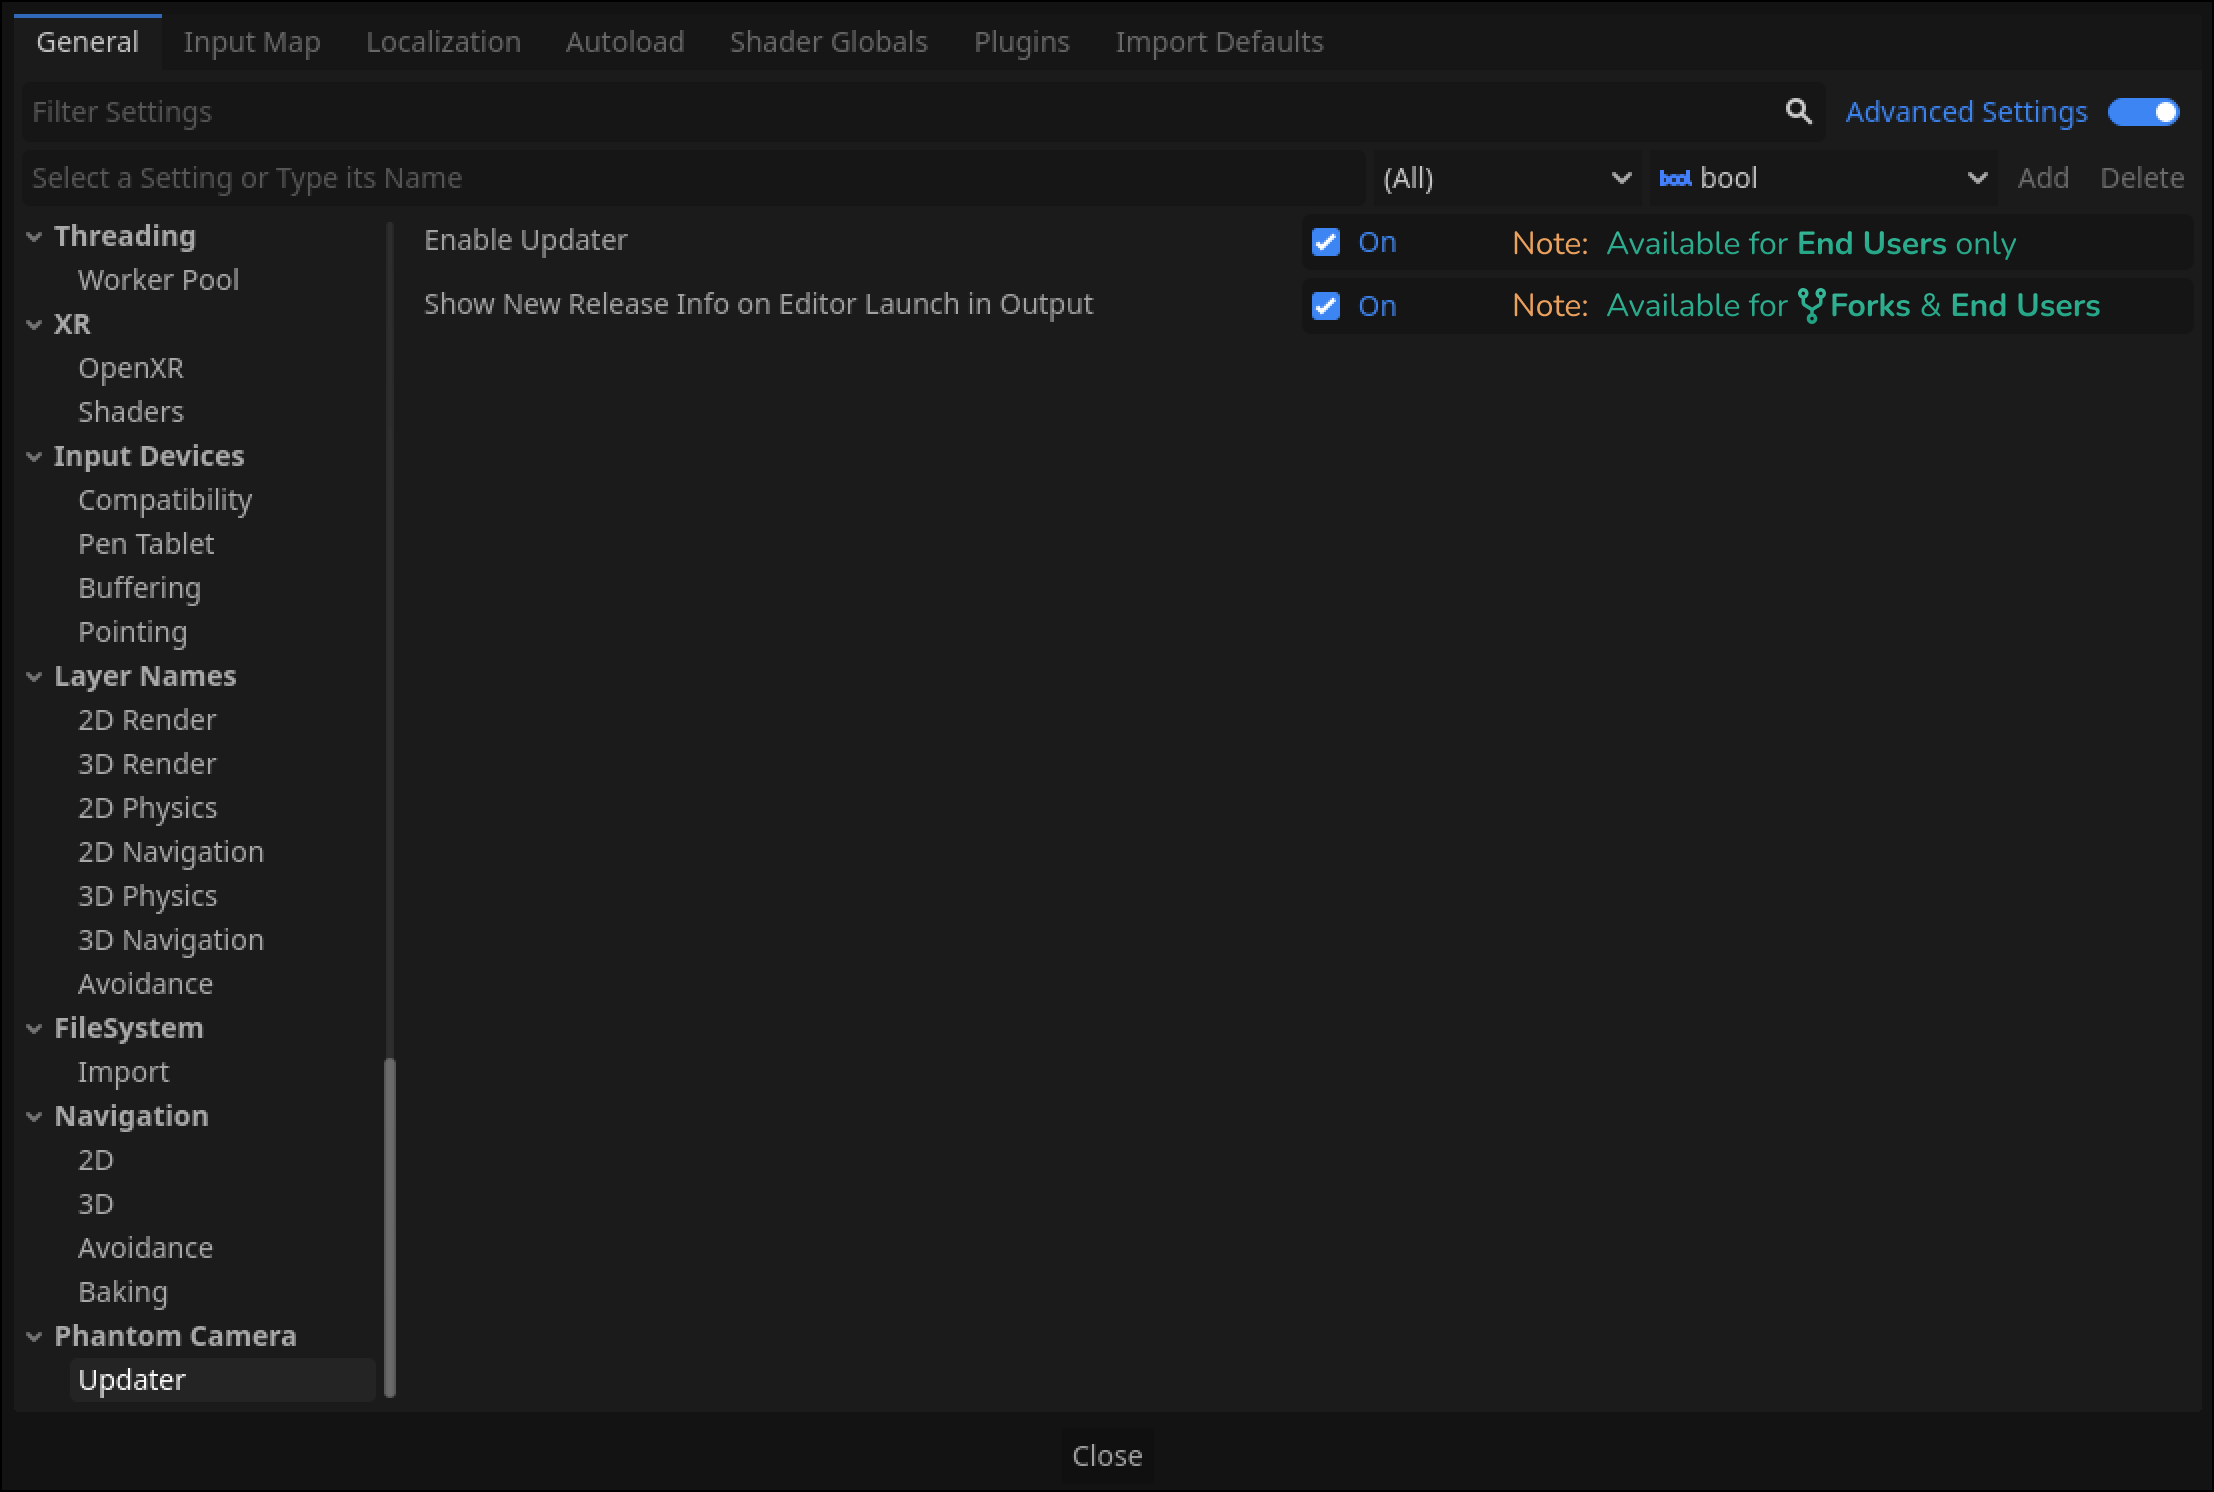
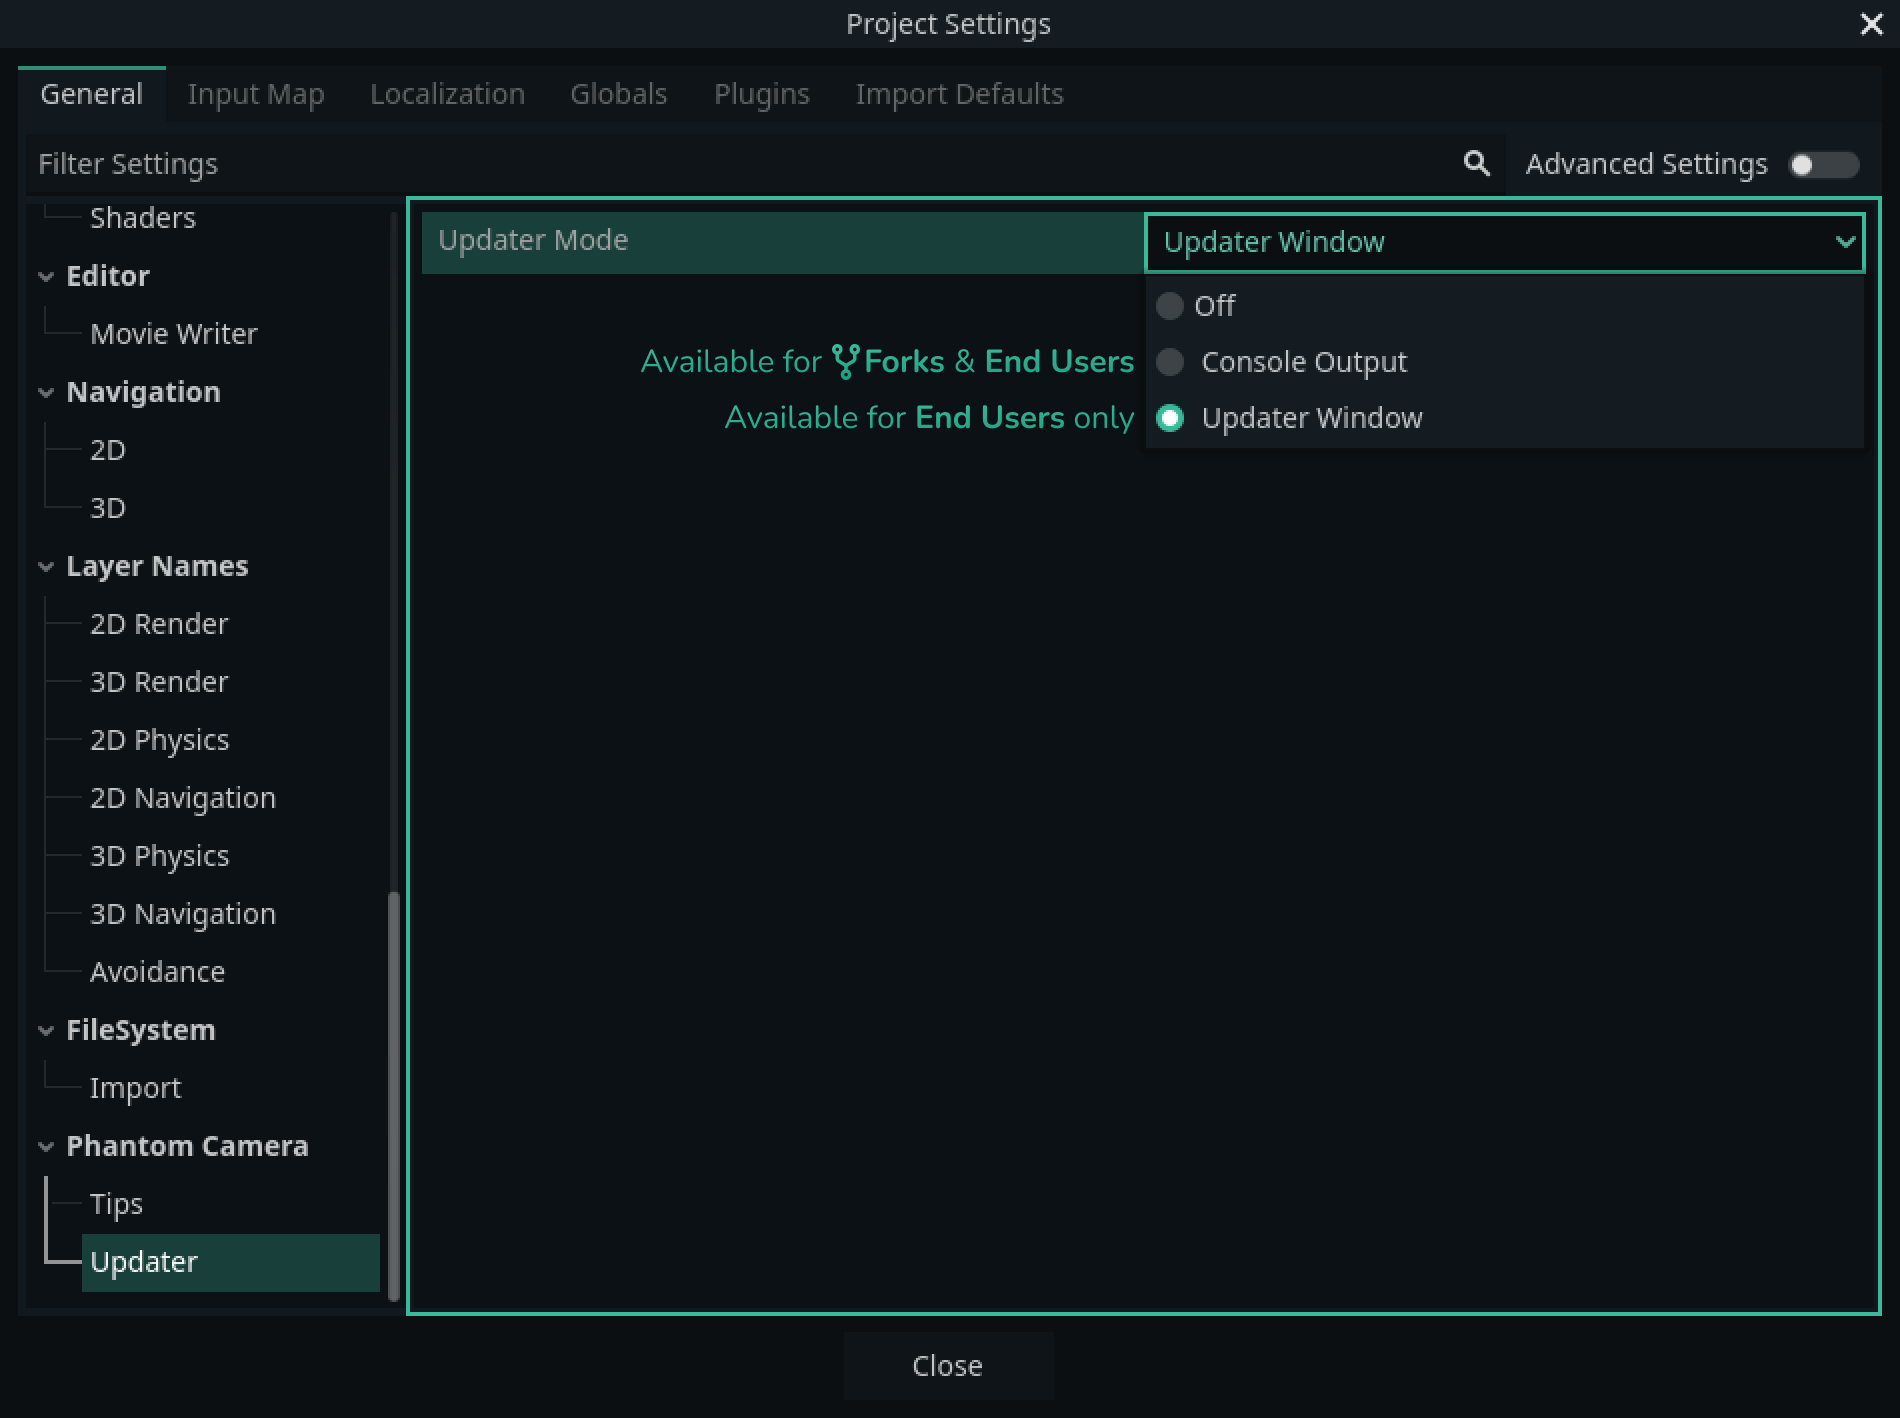
Updated Updater Settings image example and description

diff --git a/docs/.vitepress/theme/custom.css b/docs/.vitepress/theme/custom.css
@@ -18,7 +18,7 @@
     /*--vp-font-family-base: */
     --vp-font-family-base: 'Nunito', sans-serif;
     --vp-font-family-mono: 'JetBrains Mono', sans-serif;
-    --vp-code-font-size: 1rem;
+    --vp-code-font-size: 0.9rem;
 
     /* Background */
     --vp-c-bg: #141C21;

diff --git a/docs/editor-updater.md b/docs/editor-updater.md
@@ -68,9 +68,11 @@ You may have to enable `Advanced Settings` in the top right-hand corner for the 
 <table>
     <tr>
         <th>
-            <h5>Enable Updater</h5>
+            <h5>Updater Window</h5>
         </th>
-        <th><h5>Show New Release Info on Editor Launch in Output</h5></th>
+        <th>
+            <h5>Console Output</h5>
+        </th>
     </tr>
     <tr>
         <td>
@@ -81,10 +83,10 @@ You may have to enable `Advanced Settings` in the top right-hand corner for the 
         </td>
     </tr>
     <tr>
-        <td> If enabled, it will trigger the updater dialogue when the Godot project opens and show an updater button in the <code>Phantom Camera</code> editor panel.
+        <td> If enabled, it will trigger the updater button prompt in the viewfinder, as shown above at the <a href="#editor-updater">top of the page</a>, once the button is pressed ths above prompt will appear allowing for updating the addon to the latest version.
             <div class="warning custom-block">
             <p class="custom-block-title">IMPORTANT</p>
-            If you are using the addon by having forked the project, then the updater prompt will <i><b>always</b></i> be disabled.
+            This option is only available on non-forked projects.
             </div>
         </td>
         <td>

diff --git a/docs/support/faq.md b/docs/support/faq.md
@@ -17,7 +17,7 @@ See the [project page](https://github.com/users/ramokz/projects/3/views/8) to se
 ---
 
 ### What Godot version is supported?
-The minimum Godot verison this addon supports is 4.2.
+The minimum Godot version this addon supports is 4.2.
 The version requirement will change over time as the addon evolves and takes advantage of new features.
 The intent is to support as many versions of Godot as possible, but exceptions are made if significant engine changes or additions are introduced in more recent releases that affect the addon's codebase.
 
